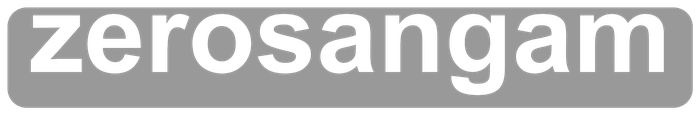
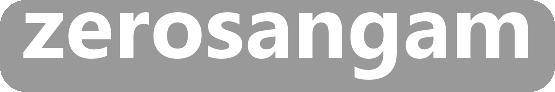
feat: borderless 40% frosted zerosangam watermark with universal auto-positioning over detected watermark

diff --git a/master_system/mr_perfect_master_engine.py b/master_system/mr_perfect_master_engine.py
@@ -383,73 +383,111 @@ def profile_video_universal(frames_dir, total_frames, sample_count=30):
     return full_wm_mask, merged_boxes, has_top_banner
 
 _CACHED_BADGE_40 = None
+_CACHED_BADGE_MTIME = 0
 
 def get_cached_badge_40():
-    global _CACHED_BADGE_40
-    if _CACHED_BADGE_40 is None:
-        badge_path = os.path.join(os.path.dirname(os.path.dirname(os.path.abspath(__file__))), "output", "metadata", "zerosangam_glass_40.png")
-        if os.path.exists(badge_path):
+    global _CACHED_BADGE_40, _CACHED_BADGE_MTIME
+    badge_path = os.path.join(os.path.dirname(os.path.dirname(os.path.abspath(__file__))), "output", "metadata", "zerosangam_glass_40.png")
+    if os.path.exists(badge_path):
+        mtime = os.path.getmtime(badge_path)
+        if _CACHED_BADGE_40 is None or mtime != _CACHED_BADGE_MTIME:
             _CACHED_BADGE_40 = cv2.imread(badge_path, cv2.IMREAD_UNCHANGED)
+            _CACHED_BADGE_MTIME = mtime
     return _CACHED_BADGE_40
 
-def stamp_zerosangam_signature(img, wm_boxes=None, text="zerosangam", is_line_art=False):
+def stamp_zerosangam_signature(img, wm_boxes=None, text="zerosangam", is_line_art=False, auto_mode=True):
     """
-    Stamps 'zerosangam' directly over the detected watermark location with:
-    - 40% semi-transparent frosted black fill (animation is visible through it).
-    - 100% opaque white text and rounded border.
-    - 100% concealment of any residual artifacts.
+    Universal Video Auto-Placement Mode:
+    - Auto Mode: If an original watermark was detected in the video (wm_boxes),
+      stamps the 'zerosangam' badge directly over the exact detected coordinates (cx, cy)
+      to 100% conceal any residual inpaint artifacts.
+    - If NO original watermark was detected (clean video), auto mode leaves the video untouched.
+    - Design: Pure white bold text with a 40% translucent frosted black pill and ZERO white border.
     """
-    h, w = img.shape[:2]
-    # Compact, non-intrusive watermark size (~18% of video width, ~32px tall)
-    target_w = 195
-    tx, ty = None, None
-
+    # 1. Filter valid watermark boxes (skip full-width top banners which are purged separately)
+    valid_boxes = []
     if wm_boxes:
-        lower_boxes = [b for b in wm_boxes if b[1] > 300]
-        target_b = lower_boxes[0] if lower_boxes else wm_boxes[0]
-        bx1, by1, bx2, by2 = target_b
-        tx = int((bx1 + bx2) // 2)
-        ty = int((by1 + by2) // 2)
-        detected_w = bx2 - bx1
-        if detected_w > 180:
-            target_w = min(280, detected_w + 25)
-    else:
-        tx = int(w * 0.84)
-        ty = int(h * 0.94)
+        for b in wm_boxes:
+            bx1, by1, bx2, by2 = b
+            bw = bx2 - bx1
+            bh = by2 - by1
+            if by1 < 250 and bw > 600:
+                continue
+            if bw < 25 or bh < 8:
+                continue
+            valid_boxes.append(b)
 
+    # 2. Auto Mode: if no original watermark was present in the video, keep video clean
+    if not valid_boxes:
+        if auto_mode:
+            return img
+        h, w = img.shape[:2]
+        valid_boxes = [(int(w * 0.72), int(h * 0.90), int(w * 0.96), int(h * 0.95))]
 
+    h, w = img.shape[:2]
     badge = get_cached_badge_40()
-    if badge is not None and badge.ndim == 3 and badge.shape[2] == 4:
-        target_h = max(20, int(badge.shape[0] * (target_w / badge.shape[1])))
-        badge_res = cv2.resize(badge, (target_w, target_h), interpolation=cv2.INTER_AREA)
 
-        start_x = max(10, min(w - target_w - 10, tx - target_w // 2))
-        start_y = max(10, min(h - target_h - 10, ty - target_h // 2))
+    # Target the primary original watermark location (largest area)
+    valid_boxes.sort(key=lambda b: (b[2] - b[0]) * (b[3] - b[1]), reverse=True)
+    target_box = valid_boxes[0]
+    bx1, by1, bx2, by2 = target_box
+
+    bw = bx2 - bx1
+    bh = by2 - by1
+    cx = int((bx1 + bx2) // 2)
+    cy = int((by1 + by2) // 2)
+
+    if badge is not None and badge.ndim == 3 and badge.shape[2] == 4:
+        bh_badge, bw_badge = badge.shape[:2]
+        aspect = bw_badge / max(1, bh_badge)
+
+        # Scale badge to comfortably cover the original watermark with a sleek, compact profile
+        target_w = max(160, min(290, bw + 18))
+        target_h = max(24, int(target_w / aspect))
+
+        # Ensure badge covers the height of original watermark
+        if target_h < bh + 8:
+            target_h = min(72, bh + 8)
+            target_w = min(320, int(target_h * aspect))
+
+        start_x = max(8, min(w - target_w - 8, cx - target_w // 2))
+        start_y = max(8, min(h - target_h - 8, cy - target_h // 2))
         end_x = start_x + target_w
         end_y = start_y + target_h
+
+        badge_res = cv2.resize(badge, (target_w, target_h), interpolation=cv2.INTER_AREA)
 
         alpha = (badge_res[:, :, 3] / 255.0)[:, :, np.newaxis]
         roi = img[start_y:end_y, start_x:end_x].astype(float)
         b_rgb = badge_res[:, :, :3].astype(float)
 
-        blended = (alpha * b_rgb + (1.0 - alpha) * roi)
+        blended = alpha * b_rgb + (1.0 - alpha) * roi
         img[start_y:end_y, start_x:end_x] = np.clip(blended, 0, 255).astype(np.uint8)
         return img
 
+    # Fallback: pure white text on 40% translucent black pill (ZERO white border)
     font = cv2.FONT_HERSHEY_DUPLEX
-    scale = 0.85
+    scale = 0.70
     thickness = 2
     (tw, th), _ = cv2.getTextSize(text, font, scale, thickness)
 
-    start_x = max(20, min(w - tw - 20, tx - tw // 2))
-    start_y = max(th + 20, min(h - 20, ty + th // 2))
+    target_w = tw + 24
+    target_h = th + 16
+    start_x = max(8, min(w - target_w - 8, cx - target_w // 2))
+    start_y = max(8, min(h - target_h - 8, cy - target_h // 2))
+    end_x = start_x + target_w
+    end_y = start_y + target_h
 
-    if is_line_art:
-        cv2.putText(img, text, (start_x, start_y), font, scale, (15, 15, 15), thickness, cv2.LINE_AA)
-    else:
-        cv2.putText(img, text, (start_x + 1, start_y + 1), font, scale, (15, 15, 15), thickness + 2, cv2.LINE_AA)
-        cv2.putText(img, text, (start_x, start_y), font, scale, (245, 243, 233), thickness, cv2.LINE_AA)
+    # 40% black pill backdrop (alpha = 0.40)
+    roi = img[start_y:end_y, start_x:end_x].astype(float)
+    img[start_y:end_y, start_x:end_x] = (roi * 0.60).astype(np.uint8)
+
+    # Pure white text centered inside pill (ZERO white border)
+    text_x = start_x + (target_w - tw) // 2
+    text_y = start_y + target_h - (target_h - th) // 2 - 2
+    cv2.putText(img, text, (text_x, text_y), font, scale, (255, 255, 255), thickness, cv2.LINE_AA)
     return img
+
 
 
 def process_single_frame_zero_blur(f_idx, in_dir, out_perfect_dir, out_color_dir, full_wm_mask=None, wm_boxes=None, purge_top_banner=False, lama_model=None):
